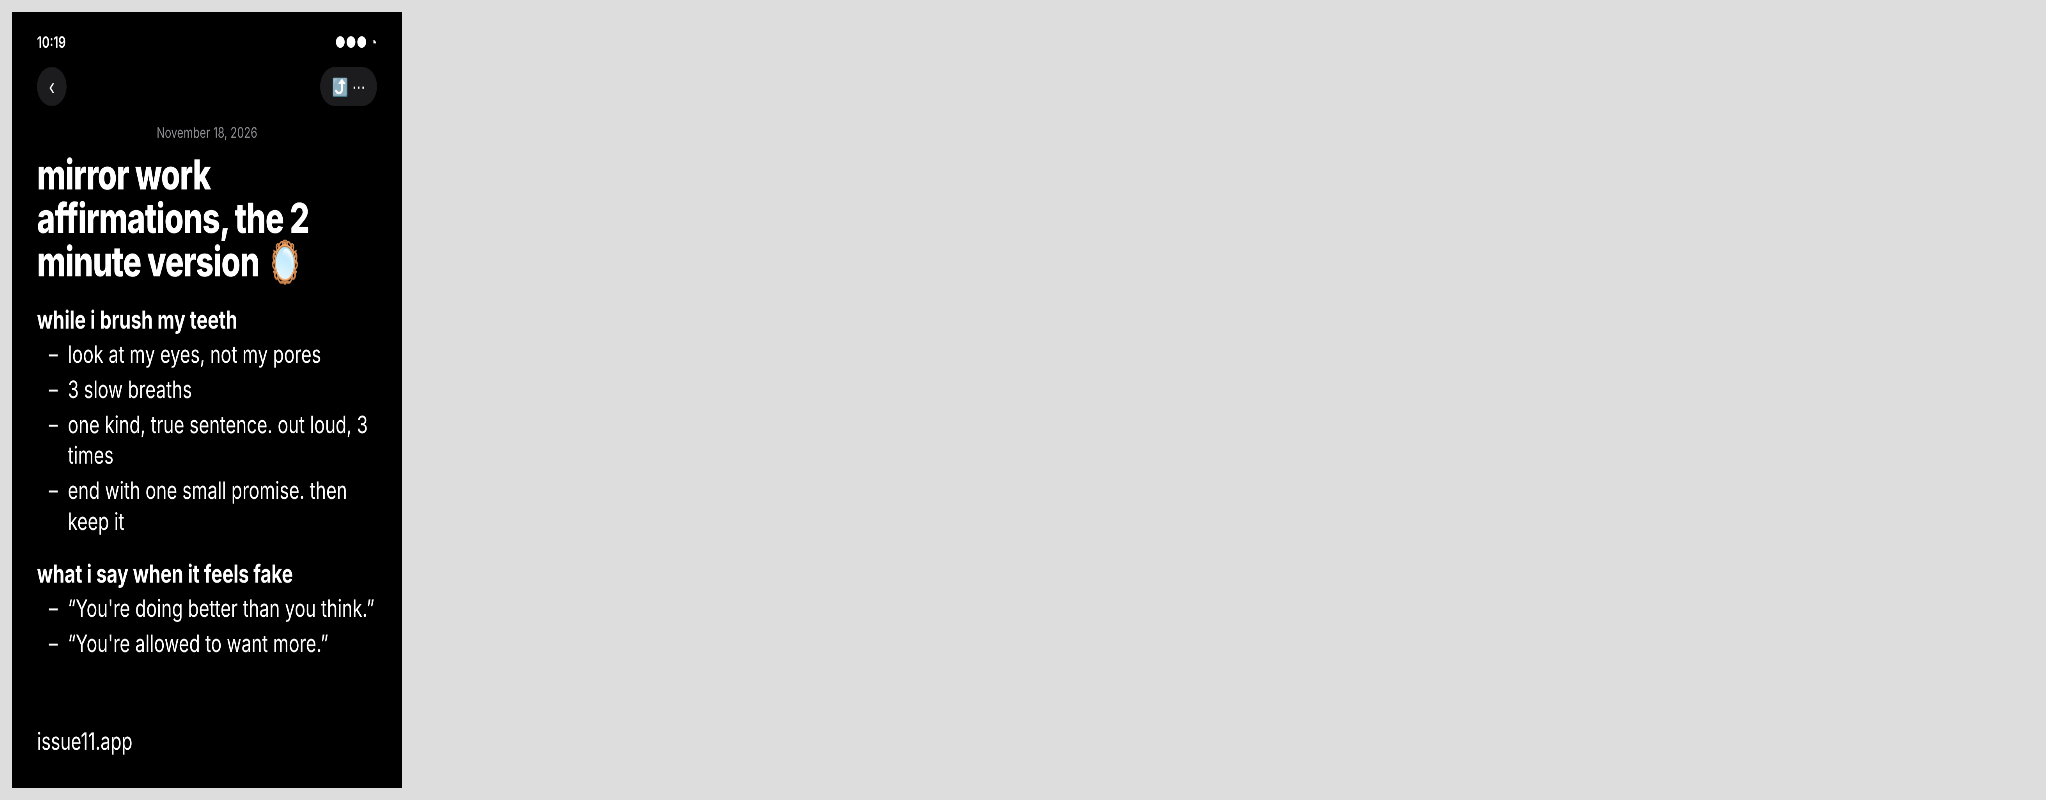
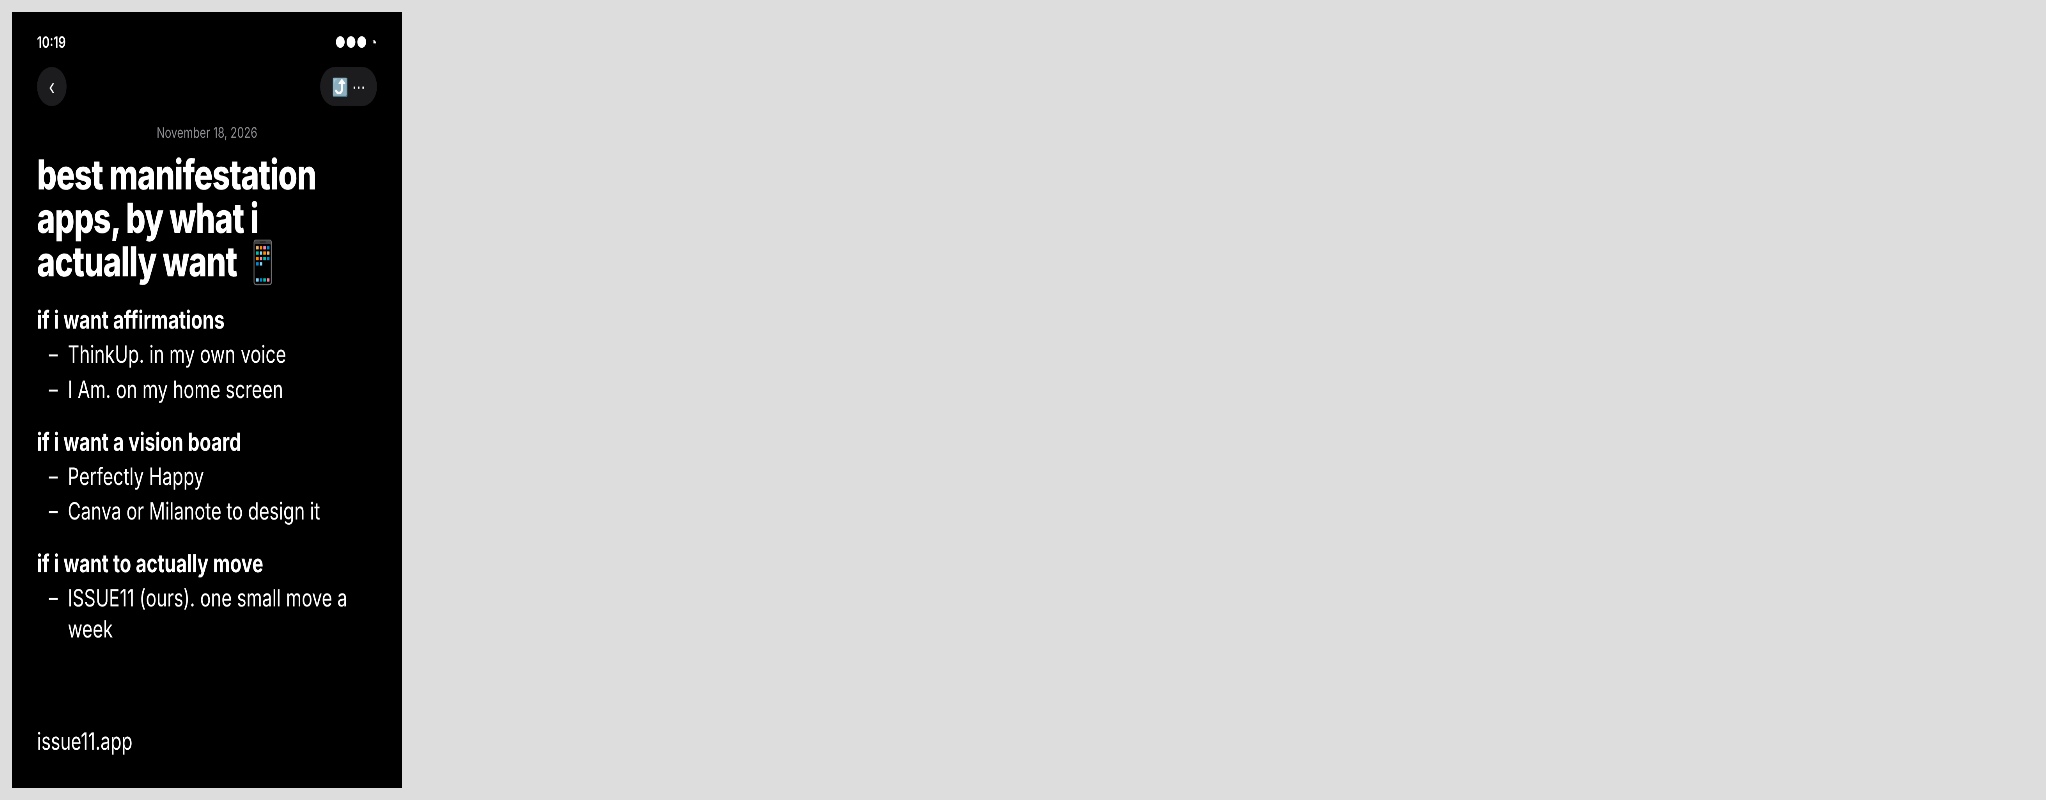
Pinterest: article pin best-manifestation-apps (phone notes)
Claude-Session: https://claude.ai/code/session_01YGtmQppBCBt9nypMHzxSp1

Changed region(s): [[0.0, 0.375, 0.1848, 0.6562], [0.0, 0.1875, 0.154, 0.375], [0.0, 0.6875, 0.1848, 0.8125]]

diff --git a/drafts/pinterest/article-pins/ArticlePinBMA.dc.html b/drafts/pinterest/article-pins/ArticlePinBMA.dc.html
@@ -1,0 +1,31 @@
+<!doctype html>
+<html lang="en">
+<head>
+<meta charset="utf-8">
+<title>Article pin · best-manifestation-apps · ready for Framer</title>
+<script src="./support.js"></script>
+</head>
+<body>
+<x-dc>
+<helmet>
+<link href="https://fonts.googleapis.com/css2?family=Inter+Tight:wght@400;500;600;700&amp;display=swap" rel="stylesheet">
+<style>body{margin:0}</style>
+</helmet>
+<div style="width:1000px; height:1500px; position:relative; overflow:hidden; background:#000; font-family:'Inter Tight', 'Apple Color Emoji','Noto Color Emoji','Segoe UI Emoji', sans-serif; color:#0D0D0D">
+<div style="position:absolute; inset:0; padding:40px 64px; font-family:-apple-system, 'SF Pro Text', 'Inter Tight', system-ui, sans-serif, 'Apple Color Emoji','Noto Color Emoji','Segoe UI Emoji'; color:#fff">
+  <div style="display:flex; justify-content:space-between; font-size:30px; font-weight:600"><span>10:19</span><span>●●● ◔</span></div>
+  <div style="display:flex; justify-content:space-between; margin-top:30px"><span style="width:76px; height:76px; border-radius:50%; background:#1c1c1e; display:flex; align-items:center; justify-content:center; font-size:40px">‹</span><span style="height:76px; padding:0 30px; border-radius:40px; background:#1c1c1e; display:flex; align-items:center; font-size:34px">⤴ ⋯</span></div>
+  <p style="margin:34px 0 0; text-align:center; font-size:28px; color:#8e8e93">November 18, 2026</p>
+  <h1 style="margin:22px 0 0; font-size:80px; font-weight:800; letter-spacing:-0.02em; line-height:1.05">best manifestation apps, by what i actually want 📱</h1>
+  
+  <p style="margin:41px 0 6px; font-weight:700; font-size:48px">if i want affirmations</p><div style="padding-left:30px; font-size:46px; line-height:1.3"><div style="display:flex; gap:26px; margin:8px 0"><span>–</span><span>ThinkUp. in my own voice</span></div><div style="display:flex; gap:26px; margin:8px 0"><span>–</span><span>I Am. on my home screen</span></div></div><p style="margin:41px 0 6px; font-weight:700; font-size:48px">if i want a vision board</p><div style="padding-left:30px; font-size:46px; line-height:1.3"><div style="display:flex; gap:26px; margin:8px 0"><span>–</span><span>Perfectly Happy</span></div><div style="display:flex; gap:26px; margin:8px 0"><span>–</span><span>Canva or Milanote to design it</span></div></div><p style="margin:41px 0 6px; font-weight:700; font-size:48px">if i want to actually move</p><div style="padding-left:30px; font-size:46px; line-height:1.3"><div style="display:flex; gap:26px; margin:8px 0"><span>–</span><span>ISSUE11 (ours). one small move a week</span></div></div>
+<p style="position:absolute; left:64px; bottom:60px; margin:0; font-size:46px; line-height:1.3">issue11.app</p></div>
+</div>
+</x-dc>
+<script type="text/x-dc" data-dc-script data-props='{"$preview":{"width":1000,"height":1500}}'>
+class Component extends DCLogic {
+  renderVals() { return {}; }
+}
+</script>
+</body>
+</html>

diff --git a/drafts/pinterest/article-pins/make_ArticlePinBMA.py b/drafts/pinterest/article-pins/make_ArticlePinBMA.py
@@ -1,0 +1,15 @@
+# ArticlePinBMA (best-manifestation-apps), Nov 17 scheduled run · phone-notes format (Megan: "the phone notes format works").
+# Lines in the notes voice, from the live article's sections (affirmations / vision board / actually move) + "How to Choose" (issue11.app/blog/best-manifestation-apps).
+# Keyword check: ../2026-11-17-best-manifestation-apps-keywords.json (Pinterest autocomplete via Apify).
+import re
+src=open('../batch1/generator.py').read(); ns={}
+exec(src[src.index('B={'):src.index('# --- Format 2')],ns)
+bg,inner=ns['notes']("November 18, 2026","best manifestation apps, by what i actually want 📱",
+  [("if i want affirmations",["ThinkUp. in my own voice","I Am. on my home screen"]),
+   ("if i want a vision board",["Perfectly Happy","Canva or Milanote to design it"]),
+   ("if i want to actually move",["ISSUE11 (ours). one small move a week"])],"x")
+inner=inner[:inner.index('<div style="position:absolute; left:0; right:0; bottom:0')].rstrip()
+fs=int(re.search(r'padding-left:30px; font-size:(\d+)px',inner).group(1))
+inner=inner[:-6]+f'<p style="position:absolute; left:64px; bottom:60px; margin:0; font-size:{fs}px; line-height:1.3">issue11.app</p></div>'
+open('ArticlePinBMA.dc.html','w').write(ns['doc']('Article pin · best-manifestation-apps · ready for Framer',inner,bg))
+print('ok',fs)

diff --git a/drafts/pinterest/article-pins/INDEX.md b/drafts/pinterest/article-pins/INDEX.md
@@ -31,6 +31,7 @@ Source boards: Claude Design Lead Magnets canvas (https://claude.ai/artifact/MZr
 | ArticlePinLOA | issue11.app/blog/law-of-assumption | png/ArticlePinLOA.png | Law of Assumption: How to Use It This Week (Without Waiting) | Dark iPhone Notes screenshot titled "law of assumption, the part that works" with the article's 5 weekly steps and 2 assumption → move examples, in the live notes voice | Pass 390 + 236 (Nov 17) | live Nov 17 (Framer babf6a18c, 390px check pass) · pin scheduled Dec 13 11:31am PT · 432301561 |
 | ArticlePinSM | issue11.app/blog/scripting-manifestation | png/ArticlePinSM.png | Scripting Manifestation Examples: My 5-Line Method (+ Journal Example) | Dark iPhone Notes screenshot titled "scripting manifestation, my 5-line method" with the article's 5 lines and its Money example, in the live notes voice | Pass 390 + 236 (Nov 18) | ready for Framer · NOT on the canvas yet (canvas full at 512 files) · pin scheduled Dec 12 5:23pm PT · 432301465 |
 | ArticlePinMW | issue11.app/blog/mirror-work | png/ArticlePinMW.png | Mirror Work Affirmations: How to Do It in 2 Minutes (+ What to Say) | Dark iPhone Notes screenshot titled "mirror work affirmations, the 2 minute version" with the article's steps and 2 of its sentences for when affirmations feel fake | Pass 390 + 236 (Nov 18) | ready for Framer |
+| ArticlePinBMA | issue11.app/blog/best-manifestation-apps | png/ArticlePinBMA.png | Best Manifestation Apps: An Honest Comparison by What You Want | Dark iPhone Notes screenshot titled "best manifestation apps, by what i actually want" listing the article's apps by job (affirmations / vision board / actually move), ISSUE11 marked "ours" | Pass 390 + 236 (Nov 18) | ready for Framer |
 
 Keyword check for ArticlePinVBE: Pinterest autocomplete (Apify, Nov 16) suggests "vision board examples" with "inspiration", "aesthetic", "life", "career" and "manifestation" variants. Raw: `../2026-11-16-vision-board-examples-keywords.json`. No volume figure from Pinterest; Google US 11,000/mo per QUEUE.md.
 
@@ -68,7 +69,7 @@ Keyword check for ArticlePinPV: Pinterest autocomplete (Apify, Nov 16) suggests 
 - Alt text on the live site drops the internal "in the live notes voice" / "rewritten in the live notes voice" notes from SCI, HTM, DMW and LOA. The rest is word for word.
 - Pinterest Save button: still NOT added (waiting on Megan).
 
-Next articles without a pin (STRATEGY.md order, then the rest of the sitemap): best-manifestation-apps · becoming-her.
+Next articles without a pin (STRATEGY.md order, then the rest of the sitemap): becoming-her.
 
 ## Nov 17 publish note
 - All 18 images were added to their articles' Content, as the first block after the intro paragraph. NYVB2 sits before "How to Host a Vision Board Party". Published as Framer version 699f2d432.
@@ -91,3 +92,5 @@ Keyword check for ArticlePinLOA: Pinterest autocomplete (Apify, Nov 17) suggests
 Keyword check for ArticlePinSM: Pinterest autocomplete (Apify, Nov 18) suggests "scripting manifestation journal", "scripting manifestation examples", "scripting manifestation journal example", "scripting manifestation prompts" and "scripting manifestation notes app". Raw: `../2026-11-18-scripting-manifestation-keywords.json`. The 5 lines and the example are from the article's "The 5-Line Scripting Method" and its Money script. No BANK quote.
 
 Keyword check for ArticlePinMW: plain "mirror work" on Pinterest means embroidery (autocomplete: blouse, lehenga, kurti; raw `../2026-11-18-mirror-work-keywords.json`), so the pin leads with "mirror work affirmations" (autocomplete: "mirror work affirmations beauty", "mirror work louise hay positive affirmations", "morning mirror affirmations", "mirror affirmations sticky notes"; raw `../2026-11-18-mirror-work-keywords-2.json`). Steps and both sentences are copied from the article. No BANK quote.
+
+Keyword check for ArticlePinBMA: Pinterest autocomplete (Apify, Nov 18) suggests "best apps for manifestation", "best manifestation apps", "free manifestation apps" and "apps for manifestation". Raw: `../2026-11-18-manifestation-apps-keywords.json`. App names and their one-line strengths are from the article; ISSUE11 is labelled "(ours)" as the article does. Third-party names are used only to describe the apps (no logos).

diff --git a/drafts/pinterest/HOURLY-LOG.md b/drafts/pinterest/HOURLY-LOG.md
@@ -1,5 +1,6 @@
 # Pinterest agent: hourly log (newest first)
 
+- 2026-11-18 08:2x UTC · Job 1: made ArticlePinBMA (best-manifestation-apps) in the phone-notes format, apps grouped by job as in the article, ISSUE11 marked "(ours)". Canvas v160 next to MW, INDEX.md "ready for Framer". Visual QA 390 + 236 passed after one fix (a 4th section ran into issue11.app, so I cut it).
 - 2026-11-18 04:2x UTC · Canvas has room again (Megan cleared 143 boards), so ArticlePinSM is now on the canvas (v158). Job 1: made ArticlePinMW (mirror-work) in the phone-notes format, keyword-led with "mirror work affirmations" because plain "mirror work" means embroidery on Pinterest. Canvas v159, INDEX.md "ready for Framer". Visual QA 390 + 236 passed.
 - 2026-11-18 00:2x UTC · Job 1: made ArticlePinSM (scripting-manifestation) in the phone-notes format (the article's 5-line method + its Money example). Saved in article-pins/ and INDEX.md as "ready for Framer"; Visual QA 390 + 236 passed. BLOCKED: not added to the Claude Design canvas because it is full (512 files); waiting for Megan to choose: clear rejected rows or start a second canvas.
 - 2026-11-17 20:2x UTC · Job 1: made ArticlePinLOA (law-of-assumption) in the phone-notes format, with the article's 5 weekly steps and 2 assumption → move examples in the notes voice. Added to the canvas (v150, next to DMW) and INDEX.md as "ready for Framer". Visual QA at 390 + 236 passed. Note: the canvas is at its 512-file cap (Megan asked to pick: clear rejected rows or start a second canvas).
